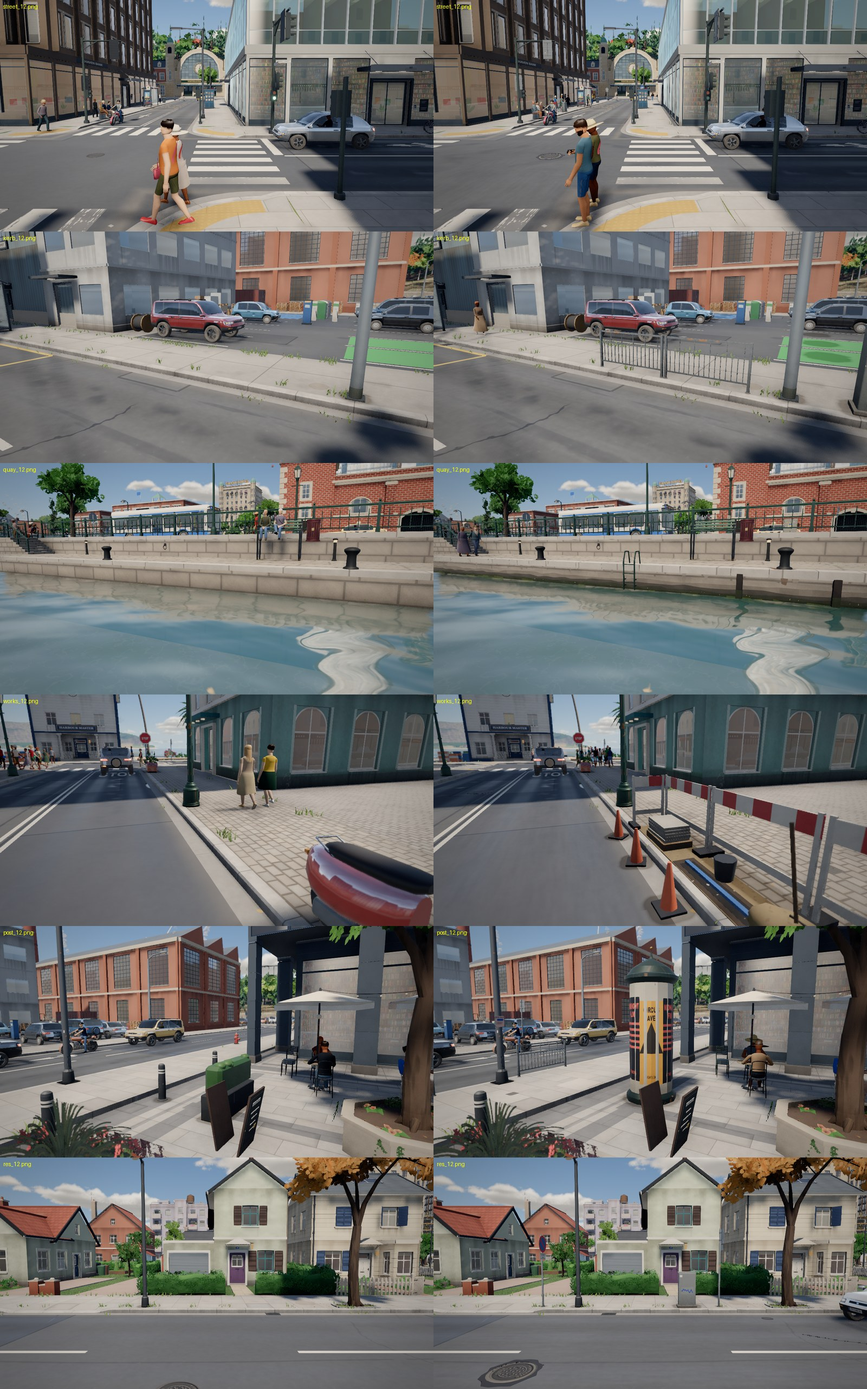
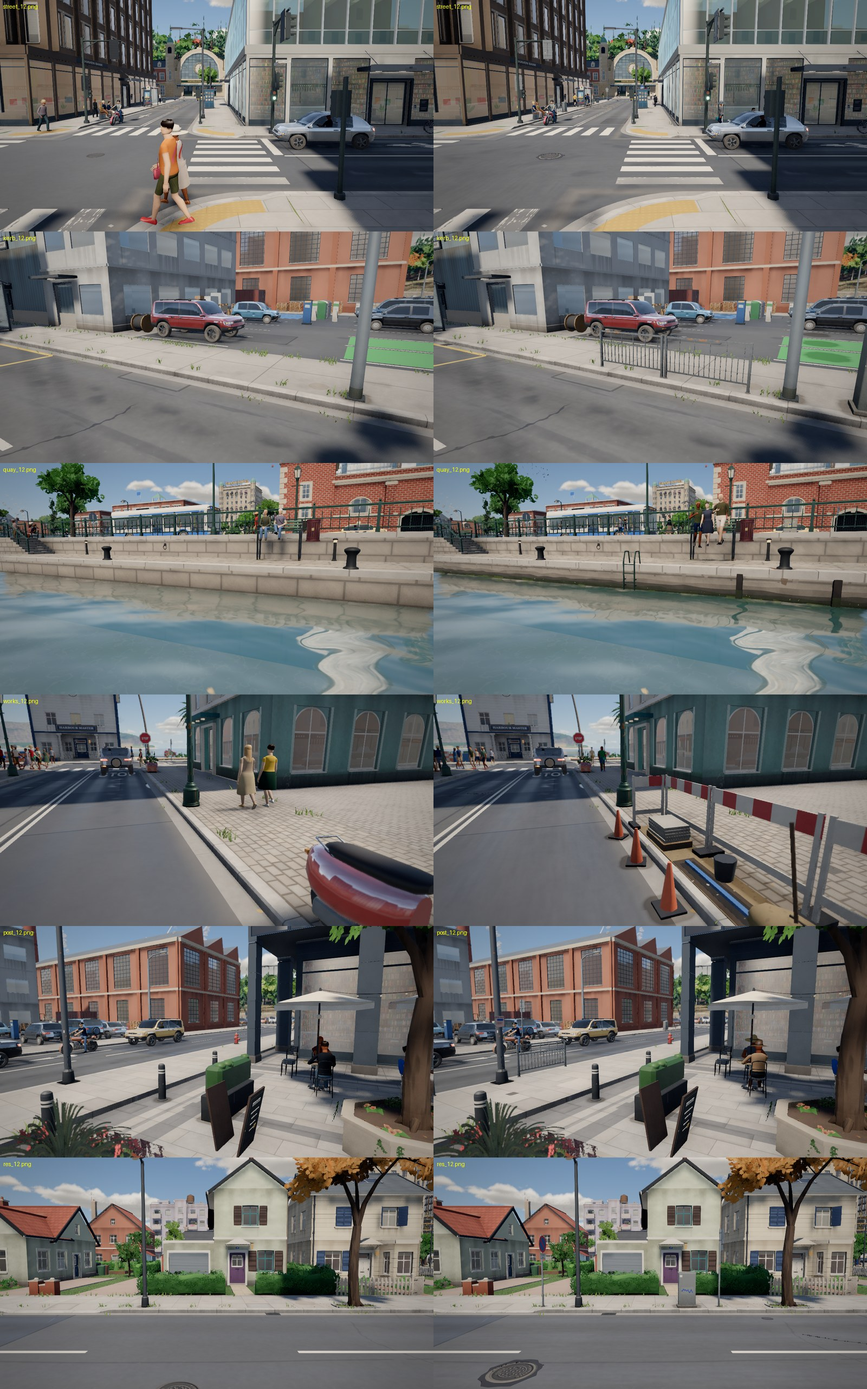
Streets detail: gutter drift near the kerb (?nogutterdrift), grimier gutter band, more trench scars, wheel stop paint on top; log

diff --git a/src/world/props/streetlife.ts b/src/world/props/streetlife.ts
@@ -16,7 +16,7 @@ import type { GreenKit } from '../buildings/green';
 import type { Kit } from './furniture';
 import { MASK_WALK, type getLayout } from './layout';
 import type { Printer } from './print';
-import { barrier, bookCart, bottleCrates, breadCrates, brooms, cabinet, cardboard, cellarHatch, clothesRail, cone, doorMat, flowerBuckets, fruitStand, guardRail, pavementLights, postNotice, postcardRack, posterColumn, sacks, signPost, wheelStop, worksSign, worksSite, type SignKind } from './streetkit';
+import { barrier, gutterDrift, bookCart, bottleCrates, breadCrates, brooms, cabinet, cardboard, cellarHatch, clothesRail, cone, doorMat, flowerBuckets, fruitStand, guardRail, pavementLights, postNotice, postcardRack, posterColumn, sacks, signPost, wheelStop, worksSign, worksSite, type SignKind } from './streetkit';
 import { bike } from './furniture';
 import { wheelieBins } from './garden';
 
@@ -307,6 +307,32 @@ export function placeStreetKit(e: StreetKitEnv): { x: number; z: number }[] & { 
         }
         spot(x, SIDEWALK_Y, z, yaw, 0, 0, 0.4, 0.22, 0.12, 0.2, 0.28);
         claim(x, z, 0.45);
+      }
+    }
+  }
+
+  // ── the gutter: grit, leaves, butts and scraps against the kerb (near only, no stone of it reaches the budget)
+  if (streetDetail(ctx, 'gutterdrift')) {
+    for (const seg of plan.roadSegments) {
+      if (!seg.sidewalks) continue;
+      const A = plan.roadNodes[seg.a],
+        B = plan.roadNodes[seg.b];
+      const L = Math.hypot(B.x - A.x, B.z - A.z);
+      const dx = (B.x - A.x) / L,
+        dz = (B.z - A.z) / L;
+      for (const sd of [1, -1]) {
+        const rx = -dz * sd,
+          rz = dx * sd;
+        // local X along the street, +Z towards the kerb
+        const yaw = Math.atan2(rx, rz);
+        for (let s = CORRIDOR_HALF + 2; s < L - CORRIDOR_HALF - 2; s += rng.range(0.6, 2.4)) {
+          const lat = ROAD_HALF - rng.range(0.08, 0.2);
+          const x = A.x + dx * s + rx * lat,
+            z = A.z + dz * s + rz * lat;
+          const kd = near(x, z);
+          kd.sh.frame(x, 0.018, z, yaw); // (the gutter band of the road lies at +0.014)
+          gutterDrift(kd, rng);
+        }
       }
     }
   }

diff --git a/src/world/props/streetkit.ts b/src/world/props/streetkit.ts
@@ -714,7 +714,7 @@ export function wheelStop(k: Kit, kd: Kit, rng: Rng): void {
   k.m(rng.pick(['#8d8a82', '#7c7a74', '#a09c92']), 'stone');
   cbox(sh, 0, 0.05, 0, W, 0.1, 0.15, 0.02);
   kd.m('#d9b52a', 'paint');
-  for (const s of [-1, 1]) kd.sh.box((s * (W - 0.24)) / 2, 0.1005, 0, 0.2, 0.001, 0.11, 55);
+  for (const s of [-1, 1]) kd.sh.box((s * (W - 0.24)) / 2, 0.1005, 0, 0.2, 0.001, 0.11, 61);
   kd.m('#3c3b39', 'iron');
   for (const s of [-1, 1]) kd.sh.cyl((s * W) / 3.2, 0.1, 0, 0.012, 0.012, 0.003, 5, 2);
 }
@@ -959,4 +959,34 @@ export function brooms(k: Kit, kd: Kit, rng: Rng): void {
   k.m('#9aa2a6', 'steel');
   sh.cyl(0.26, 0, 0.02, 0.115, 0.15, 0.26, 10, 2);
   for (let i = 1; i < 5; i++) sh.cyl(0.26, 0.2 + i * 0.05, 0.02, 0.122, 0.152, 0.05, 10, 0);
+}
+
+/** What collects against a kerb, flat on the road (X along the kerb, +Z towards it): a drift of grit, leaves, butts, a scrap. */
+export function gutterDrift(kd: Kit, rng: Rng): void {
+  const sh = kd.sh;
+  const top = 61; // top face only
+  if (rng.chance(0.55)) {
+    const n = rng.int(1, 3);
+    for (let i = 0; i < n; i++) {
+      kd.m(rng.pick(['#5e5a50', '#66604f', '#55524a', '#6e6654']), 'stone');
+      sh.push().local(rng.range(-0.25, 0.25), 0.001 + i * 0.0006, rng.range(-0.03, 0.03), 0, rng.range(-0.25, 0.25), 0);
+      sh.box(0, 0, 0, rng.range(0.2, 0.75), 0.001, rng.range(0.04, 0.12), top);
+      sh.pop();
+    }
+  }
+  for (let i = rng.int(0, 5); i > 0; i--) {
+    const kind = rng.next();
+    sh.push().local(rng.range(-0.45, 0.45), 0.003 + i * 0.0004, rng.range(-0.1, 0.08), 0, rng.range(0, 3.14), 0);
+    if (kind < 0.6) {
+      kd.m(rng.pick(['#6d4f2a', '#8a6a34', '#5a4326', '#7a5a2c', '#a07a3a']), 'wood');
+      sh.box(0, 0, 0, rng.range(0.04, 0.08), 0.001, rng.range(0.025, 0.05), top);
+    } else if (kind < 0.85) {
+      kd.m(rng.pick(['#d8d0bc', '#c49a6c']), 'plastic');
+      sh.box(0, 0, 0, 0.03, 0.001, 0.009, top);
+    } else {
+      kd.m(rng.pick(['#cfcabb', '#b8b3a6', '#8ca0a8']), 'plastic');
+      sh.box(0, 0, 0, rng.range(0.05, 0.12), 0.001, rng.range(0.04, 0.08), top);
+    }
+    sh.pop();
+  }
 }

diff --git a/src/world/roads/glsl.ts b/src/world/roads/glsl.ts
@@ -174,8 +174,8 @@ vec3 rdAsphalt(inout float rough) {
     c *= 1.0 - 0.4 * oil;
     rough -= 0.35 * oil;
     // gutter: dusty band along the kerb, darker damp line right at it
-    c = mix(c, vec3(0.2, 0.185, 0.16) * (0.85 + 0.3 * nS.r), smoothstep(2.85, 3.3, alat) * onRoad * 0.45);
-    c *= 1.0 - 0.25 * smoothstep(3.28, 3.48, alat) * onRoad;
+    c = mix(c, vec3(0.2, 0.185, 0.16) * (0.85 + 0.3 * nS.r), smoothstep(2.85 - 0.3 * uJuncWear, 3.3, alat) * onRoad * (0.45 + 0.3 * uJuncWear * (0.35 + 1.3 * strk.a)));
+    c *= 1.0 - (0.25 + 0.12 * uJuncWear) * smoothstep(3.22, 3.48, alat) * onRoad;
     // sealed cracks on worn sections
     float worn = smoothstep(0.22, 0.55, age) * onRoad * step(${JBOX}, dj);
     if (worn > 0.001) {
@@ -226,7 +226,7 @@ vec3 rdAsphalt(inout float rough) {
     }
     // utility trench cut across one lane
     float tc = rdHash(sg + 8.8);
-    if (tc < 0.45) {
+    if (tc < 0.45 + 0.17 * uJuncWear) {
       float tpos = 10.0 + 35.0 * fract(tc * 13.7);
       float tw = 0.7 + 0.6 * fract(tc * 7.1);
       float dt = abs(t - tpos);

diff --git a/docs/progress/detail-streets.md b/docs/progress/detail-streets.md
@@ -6,16 +6,24 @@ that edits cannot leak into a run: `npx vite build --outDir shots/ds/perfdist`, 
 --port 5213 --strictPort --host 127.0.0.1`, then `perf.mjs --url http://127.0.0.1:5213/`.
 
 ## Resume here
-Rounds 1-2 (ground, street kit, shop fronts, works) committed and measured within budget (see Perf, run 3). Seen by eye and
-good: guard rails (52 after the placement fix), poster columns, fruit stand, clothes rail, sacks, cardboard, works. Tar fixed:
-weathered grey, continuous strips (separate quads read as ant trails from afar), thinner overbanding, old digs a broken saw cut.
+Five rounds done and committed; the ranked list has nothing left in these files worth its cost (see Left). Measured within
+budget, final checks at the end of this file's Log. Nothing is merged or pushed.
 
-Next: golden-hour + night audit (`shots/ds/r3b`), independent judge on an image sheet, then the places items (lower-quay
-waterline and coping: bed, weed fringe, fenders; cliff seams), plot edges (retaining walls, fences, hedges), mid-distance
-check at 30-60 m, re-measure, final checks from `DETAIL-ROUND.md`, before/after sheets in `docs/progress/detail/streets/`, report.
+Audit tool: `services.props.streetKit` lists every kit item `{k, x, z}` (scratch `kitpos.mjs`, a page with
+`only=terrain,landscape,roads,buildings,landmarks,harbor,vegetation,props,camera`). Stand on the road side when aiming at a
+kit item: goods turn their face to the pavement. Shots in `shots/ds/`. Sheets in `docs/progress/detail/streets/`.
 
-Audit tool: `services.props.streetKit` lists every kit item `{k, x, z}` (scratch `kitpos.mjs`; note `wheelStop` reports the
-last claim, not its own place). Shots in `shots/ds/`. When aiming at a shop item stand on the pavement side.
+## Best view for each thing
+| what | view (`--view` / hour) |
+|---|---|
+| kerb stones, tar, cover in its collar | `-137,1,36,14,0,4` noon; `-128.7,0.2,-7,3,175,18` noon |
+| road at 30-60 m (streaks, wheel paths, patches) | `-110,1.5,20,30,0,2` noon; `0,1.5,-92,30,0,1.5` noon, 18.2 |
+| lower quay (tide stain, coping blocks, ladder, rubbing posts) | `-45,-1.2,114,8,25,8` noon, 18.2; `-30,-1,114,5,-20,4` noon |
+| guard rail, sign backs | `-69,0.8,-68.9,6,30,12` noon |
+| poster column | `-47,1.4,-77.3,6,30,6` noon, 18.2 |
+| road works | `85.9,0.5,-6.1,5,-110,14` noon, 21.5 |
+| bins out, bottle crates, sacks | `-128.7,0.6,-6.1,3.5,165,10`; `3.9,0.6,75.9,3,-70,10`; `20,0.3,-68.9,3,15,14` noon |
+| park path edge | `-58,0.3,20,12,30,8` noon |
 
 ## Perf
 Budget: at most +1 ms in overview, downtown, street, market; at most +250 k triangles in a full-city view.
@@ -44,7 +52,7 @@ one sample.
 |---|---|---|
 | `?nokerbstones` | kerb as separate granite units: each proud and tilted its own way, worn arris, knocked corners; continuous kerb stays as a backing | `roads/streets.ts` |
 | `?noliftedslabs` | slabs rocked on one edge or corner, root heave round street trees, on the shader's grid | `roads/paving.ts` |
-| `?nojunctionwear` | junction box: rubber arcs, dust between wheels, oily middle, sealed crack map | `roads/glsl.ts` |
+| `?nojunctionwear` | junction box: rubber arcs, dust between wheels, oily middle; also long streaks, stronger wheel paths, grimier gutter, more trench scars on all road | `roads/glsl.ts` |
 | `?nocoverkit` | manholes in a raised frame with a tar collar and the square of the old dig; tar snakes; valve boxes; telecom chambers; ghost stop lines | `roads/markings.ts` |
 | `?nopathedge` | park paths: no dark wall; granite soldier course, skirt following the ground, soil bank with grass | `roads/covers.ts` |
 | `?nosignalback` | signal heads from behind: galvanised plate, rails, conduit (additive edit in the people session's file) | `sim/traffic/signals.ts` |
@@ -55,20 +63,37 @@ one sample.
 | `?nopostnotices` | paper notices cable-tied to lamp posts (near only) | same |
 | `?noshopfront` | doormats, cellar flaps, pavement lights, goods at the kerb (fruit, flowers, books, clothes, postcards) | same |
 | `?noroadworks` | works sites in the furniture band: sand bed, slabs on a pallet, barriers, cones, sign | same |
-| `?nokerbsideodds` | sacks and cardboard put out at the kerb | same |
+| `?nokerbsideodds` | sacks and cardboard at the kerb, wheelie bins on residential streets | same |
 | `?noparkingkit` | wheel stops, engine drips in the car parks | same |
+| `?nogutterdrift` | grit, leaves, butts and scraps against the kerb, near cells only (+18 k triangles in all, drawn within 30 m) | same |
+| `?noquaywear` | lower quay: water face in stacked tide tones, coping as separate blocks with knocked corners, rust, iron ladders, tarred rubbing posts | `terrain/places.ts` |
 
-Always on (bug fixes): pavement stain edge softened (it drew 2 m tan lenses with an outline), no standing water away from the
+Always on (bug fixes): cracks and overbanding thinner and greyer, more road patches, cutting wall foot in stacked tones instead of a straight band, pilasters shallower, weather across ashlar at the scale of metres, pavement stain edge softened (it drew 2 m tan lenses with an outline), no standing water away from the
 gutter on a dry road, tar overbanding less mirror-like. The print material now alpha-tests (round sign plates).
 
 ## Hand-offs
 - **nature** (`groundcover/mask.ts`): pavement weeds at eye level are the loudest thing on the ground: blades too long and
-  too wide, combs along every wall foot and kerb. A third of the length, thinner, mostly at joints.
+  too wide, combs along every wall foot and kerb. A third of the length, thinner, mostly at joints. Both judges also saw the
+  razor-straight edge between pavement and lawn: grass should lap over it.
 - **light**: at eye level the shadow edge on paving shows a regular dither pattern.
-- **people**: signal head fixings touched in `sim/traffic/signals.ts` (additive block, one line in the repeater).
+- **people**: signal head fixings touched in `sim/traffic/signals.ts` (additive block, one line in the repeater). Market
+  stalls under their evening tarps read as lumpy blobs in `27.5,1,78.5,16,200,28` at 18.2 (`sim/scenes/market.ts`).
+- **water**: a sharp-edged teal shape on the river surface off the lower quay, `-45,-1.2,114,8,25,8` at noon.
+
+## Left, not worth its cost here
+- Cliff lobes above the cutting wall (`-20,1.8,-162,14,25,6`) read as sculpted at 8 m: geometry work, far from most walks.
+- Black side faces on the cutting-wall pilasters: cause not found (plain dressing quads came out black too), made narrow by
+  making the pilasters shallower.
+- Wet-band tones on the quay show fine steps at under 5 m: invisible from the promenade.
 
 ## Log
 - 2026-10-31 audit: 16 eye-level noon views (`shots/ds/a1`), own look. Ranked: 1 black outline round park paths; 2 blank
   junctions; 3 dead straight kerbs; 4 flat paving without any moved slab; 5 lens puddles and tan stains; 6 no utilities, signs
   or paper at street level; 7 signal backs; 8 nothing outside shop doors. Already done by earlier rounds and left alone: tree
   pits and grates, push buttons, kerb shader, litter.
+- 2026-10-31 rounds 2-5. Kit first looked over budget (+1.8 ms street): figures, see Perf. Guard rails placed nothing until
+  they searched the kerb for a free run. Shop goods slide along the kerb (8 items to 20). Judge 1 (6.5/10): clean asphalt, ant
+  trails on the junction, works with no trench. Ant trails took four attempts: strips, footprint fade, dissolve, then the cause:
+  a sliver's derivatives faded its long triangles to the pale base and left its short ones dark; hairlines now skip that fade and
+  stop at a pixel. Judge 2 (6.5/10, with weeds and facades out of scope): gutters and carriageway too clean: gutter drift, grimier
+  band, more trench scars.
